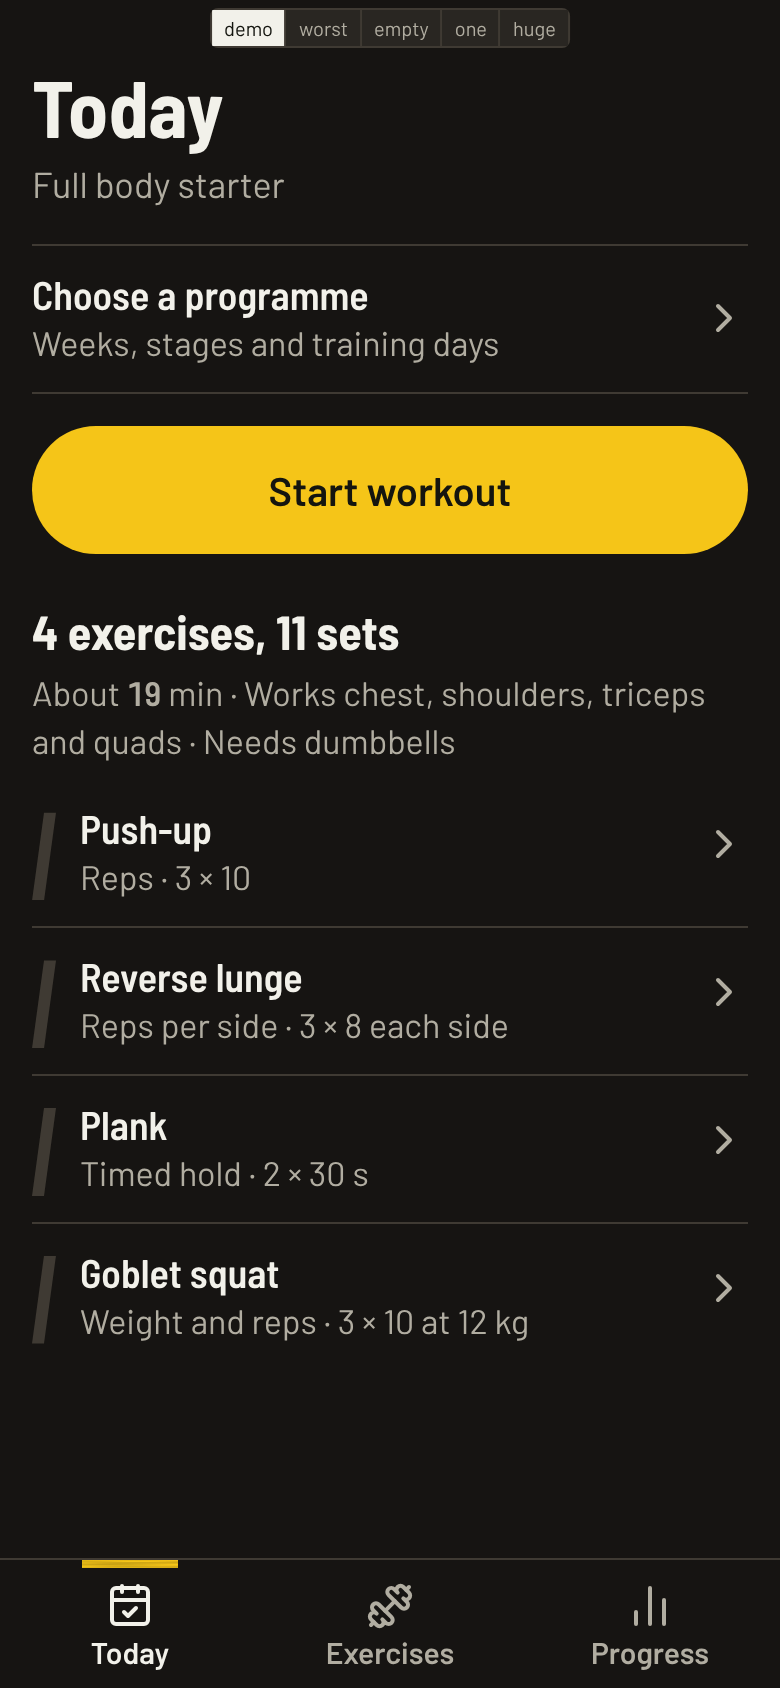
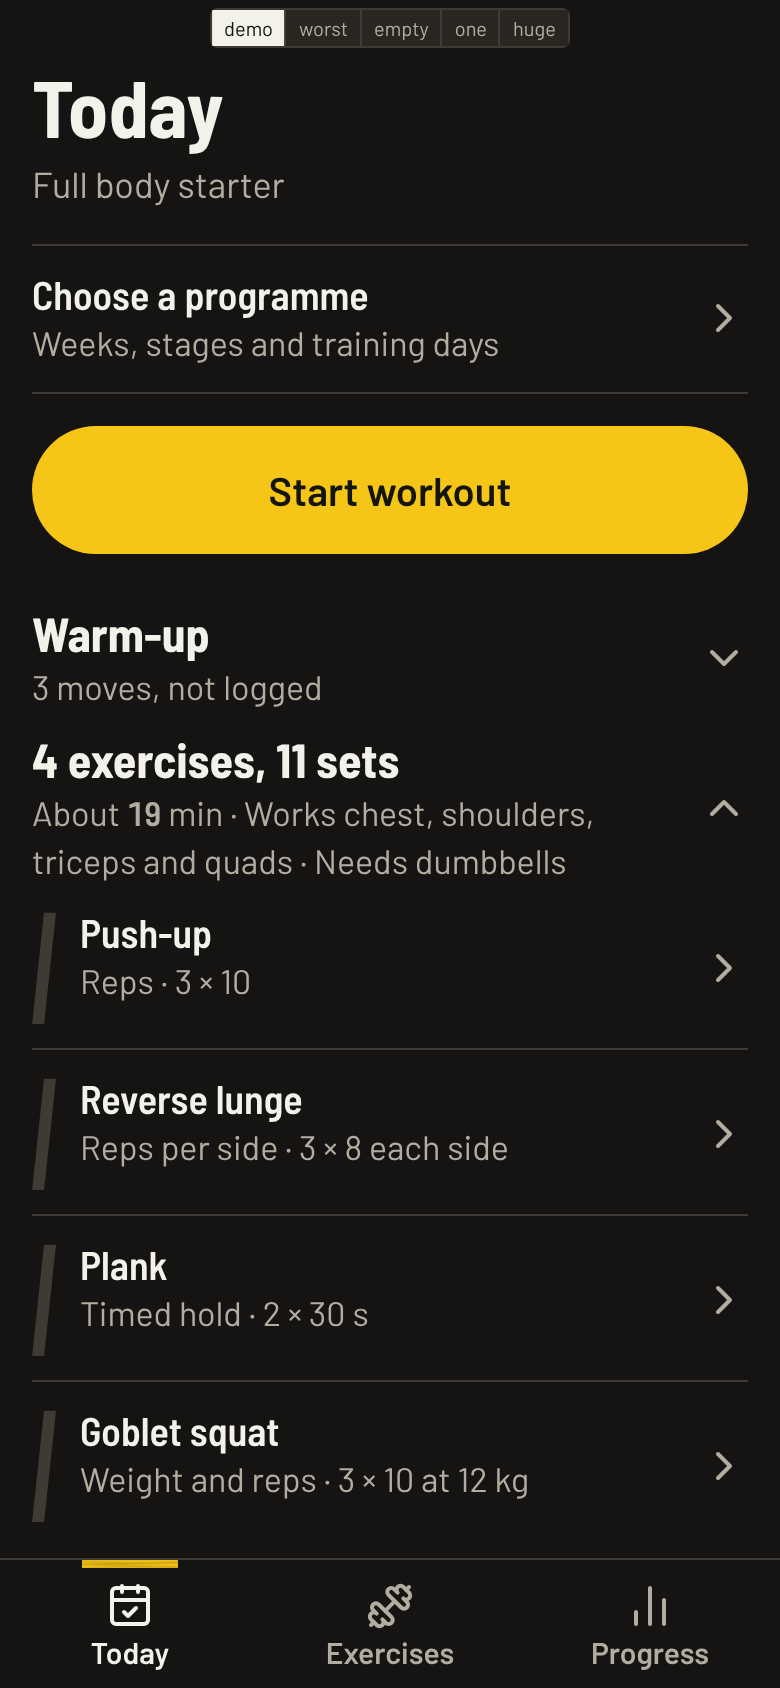
Today: collapsible Warm-up, Workout and Cool-down sections (placeholder moves)
Claude-Session: https://claude.ai/code/session_01QSdbTS6XM65aGeFM4K1ddu

diff --git a/src/screens/TodayScreen.tsx b/src/screens/TodayScreen.tsx
@@ -4,7 +4,21 @@ import { EmptySlots } from '../components/EmptySlots'
 import { EmptyState } from '../components/EmptyState'
 import { ExerciseRow } from '../components/ExerciseRow'
 import { joinList, sessionFacts } from '../lib/sessionFacts'
-import type { Session } from '../types'
+import { Disclosure } from '../components/Disclosure'
+import type { Routine, Session } from '../types'
+
+function RoutineList({ items }: { items: Routine[] }) {
+  return (
+    <ul className="m-0 flex list-none flex-col p-0">
+      {items.map((r) => (
+        <li key={r.id} className="flex min-h-14 items-baseline justify-between gap-3 border-t border-line py-3 first:border-t-0">
+          <span className="min-w-0 text-xl font-semibold [overflow-wrap:anywhere]">{r.name}</span>
+          <span className="num shrink-0 text-[17px] whitespace-nowrap text-muted">{r.detail}</span>
+        </li>
+      ))}
+    </ul>
+  )
+}
 
 interface TodayScreenProps {
   session: Session
@@ -66,22 +80,45 @@ export function TodayScreen({ session, onStart, onChoose, onOpen, programme, onP
             >
               Start workout
             </button>
-            <section className="flex flex-col gap-1" aria-labelledby="today-list">
-              <h2 id="today-list" className="font-display m-0 text-2xl leading-tight font-bold">
-                {session.exercises.length} {session.exercises.length === 1 ? 'exercise' : 'exercises'},{' '}
-                {sets} {sets === 1 ? 'set' : 'sets'}
-              </h2>
-              <p className="m-0 pb-1 text-[17px] text-pretty text-muted" data-testid="session-facts">
-                About <span className="num">{facts.minutes}</span> min
-                {facts.muscles.length > 0 && ` · Works ${joinList(facts.muscles.slice(0, 4))}`}
-                {` · ${facts.equipment}`}
-              </p>
-              <ul className="m-0 flex list-none flex-col p-0">
-                {session.exercises.map((e) => (
-                  <ExerciseRow key={e.id} exercise={e} clamp onOpen={onOpen} />
-                ))}
-              </ul>
-            </section>
+            <div className="flex flex-col gap-2">
+              {session.warmup && session.warmup.length > 0 && (
+                <Disclosure
+                  title="Warm-up"
+                  meta={`${session.warmup.length} moves, not logged`}
+                  testId="warmup"
+                >
+                  <RoutineList items={session.warmup} />
+                </Disclosure>
+              )}
+              <Disclosure
+                title={`${session.exercises.length} ${session.exercises.length === 1 ? 'exercise' : 'exercises'}, ${sets} ${sets === 1 ? 'set' : 'sets'}`}
+                meta={
+                  <>
+                    About <span className="num">{facts.minutes}</span> min
+                    {facts.muscles.length > 0 && ` · Works ${joinList(facts.muscles.slice(0, 4))}`}
+                    {` · ${facts.equipment}`}
+                  </>
+                }
+                metaTestId="session-facts"
+                defaultOpen
+                testId="workout"
+              >
+                <ul className="m-0 flex list-none flex-col p-0">
+                  {session.exercises.map((e) => (
+                    <ExerciseRow key={e.id} exercise={e} clamp onOpen={onOpen} />
+                  ))}
+                </ul>
+              </Disclosure>
+              {session.cooldown && session.cooldown.length > 0 && (
+                <Disclosure
+                  title="Cool-down"
+                  meta={`${session.cooldown.length} moves, not logged`}
+                  testId="cooldown"
+                >
+                  <RoutineList items={session.cooldown} />
+                </Disclosure>
+              )}
+            </div>
           </>
         )}
       </main>

diff --git a/tests/tabs.spec.ts b/tests/tabs.spec.ts
@@ -165,3 +165,32 @@ test('Today states the length, muscles and equipment of the session', async ({ p
   await expect(facts).toContainText('Works chest')
   await expect(facts).toContainText('Needs dumbbells')
 })
+
+test('Today has Warm-up, Workout and Cool-down sections that open and close, the workout open first', async ({ page }) => {
+  await page.goto('/?stage=today')
+  const head = (name: RegExp) => page.getByRole('button', { name })
+  await expect(head(/^4 exercises, 11 sets/)).toHaveAttribute('aria-expanded', 'true')
+  await expect(head(/^Warm-up/)).toHaveAttribute('aria-expanded', 'false')
+  await expect(head(/^Cool-down/)).toHaveAttribute('aria-expanded', 'false')
+  await expect(page.getByTestId('warmup').getByRole('listitem')).toHaveCount(0)
+  await head(/^Warm-up/).click()
+  await expect(head(/^Warm-up/)).toHaveAttribute('aria-expanded', 'true')
+  await expect(page.getByTestId('warmup').getByRole('listitem')).toHaveCount(3)
+  await expect(page.getByTestId('warmup')).toContainText('Arm circles')
+  await head(/^4 exercises, 11 sets/).click()
+  await expect(page.getByTestId('workout').getByRole('listitem')).toHaveCount(0)
+  for (const b of await page.getByTestId('today').locator('h2 button').all()) {
+    expect((await b.boundingBox())!.height).toBeGreaterThanOrEqual(48)
+  }
+  // The workout rows are not warm-up moves: starting still goes to the four exercises.
+  await page.getByTestId('start-workout').click()
+  await expect(page.getByTestId('ready')).toBeVisible()
+})
+
+test('worst-case warm-up names wrap at 320 without overflow', async ({ page }) => {
+  await page.setViewportSize({ width: 320, height: 640 })
+  await page.goto('/?stage=today&data=worst')
+  await page.getByRole('button', { name: /^Warm-up/ }).click()
+  const ok = await page.evaluate(() => document.documentElement.scrollWidth <= document.documentElement.clientWidth)
+  expect(ok).toBe(true)
+})

diff --git a/src/components/Disclosure.tsx b/src/components/Disclosure.tsx
@@ -1,0 +1,49 @@
+import { ChevronDown } from 'lucide-react'
+import { useId, useState, type ReactNode } from 'react'
+
+interface DisclosureProps {
+  /** The heading text. */
+  title: string
+  /** A short muted line under the title, such as "3 moves". */
+  meta?: ReactNode
+  metaTestId?: string
+  defaultOpen?: boolean
+  children: ReactNode
+  testId?: string
+}
+
+/** A section heading that is also the button that opens and closes its content. */
+export function Disclosure({ title, meta, metaTestId, defaultOpen = false, children, testId }: DisclosureProps) {
+  const [open, setOpen] = useState(defaultOpen)
+  const id = useId()
+  return (
+    <section className="flex flex-col" data-testid={testId}>
+      <h2 className="m-0">
+        <button
+          type="button"
+          className="press flex min-h-14 w-full items-center justify-between gap-3 text-left"
+          aria-expanded={open}
+          aria-controls={id}
+          onClick={() => setOpen((o) => !o)}
+        >
+          <span className="flex min-w-0 flex-col">
+            <span className="font-display text-2xl leading-tight font-bold [overflow-wrap:anywhere]">{title}</span>
+            {meta && (
+              <span className="text-[17px] text-pretty text-muted" data-testid={metaTestId}>
+                {meta}
+              </span>
+            )}
+          </span>
+          <ChevronDown
+            size={24}
+            aria-hidden="true"
+            className={`shrink-0 text-muted transition-transform duration-150 motion-reduce:transition-none ${open ? 'rotate-180' : ''}`}
+          />
+        </button>
+      </h2>
+      <div id={id} hidden={!open}>
+        {children}
+      </div>
+    </section>
+  )
+}

diff --git a/src/types.ts b/src/types.ts
@@ -31,10 +31,19 @@ export interface Exercise {
   demands?: Demand[]
 }
 
+/** A warm-up or cool-down move. Shown for reference, not logged. Placeholder fixtures. */
+export interface Routine {
+  id: string
+  name: string
+  detail: string
+}
+
 export interface Session {
   name: string
   restSeconds: number
   exercises: Exercise[]
+  warmup?: Routine[]
+  cooldown?: Routine[]
 }
 
 export type PrefillSource = 'last-session' | 'plan' | 'previous-set' | 'hold' | 'default'

diff --git a/docs/overnight-queue.md b/docs/overnight-queue.md
@@ -26,7 +26,7 @@ Rules: one commit per feature, push after each, tests after each feature, one re
 - [x] Batch D review and fixes (source-only review; applied 13 of 14, search by category left out on purpose)
 
 ## Batch E: Session and loading
-- [ ] Warm-up and cool-down collapsible sections, placeholder data (row 42)
+- [x] Warm-up and cool-down collapsible sections, placeholder data (row 42)
 - [x] Get-ready 5-4-3-2-1 countdown before the first exercise (row 45)
 - [ ] Skeleton loaders for lazily loaded screens and the demo media slot (row 72)
 - [ ] Batch E review and fixes
